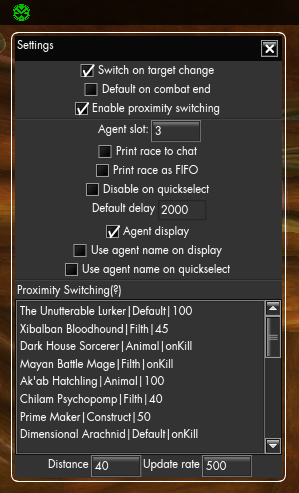
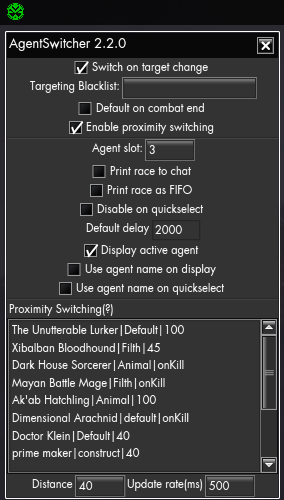
update readme + version

diff --git a/README.md b/README.md
@@ -29,6 +29,7 @@ Icon can be moved while in GUI-Edit mode
 
 **Settings**  
 Switch on target change : Switches your agent when you target an enemy  
+Targeting blacklist : Comma-separated(no space after comma) list of enemies to ignore for targeting based switching  
 Default on combat end : Switches back to your default agent x seconds after combat ends  
 Enable proximity switching : Automatically switches agent when specified(see proximity targeting section below for configuration) enemy enters proximity.
 ________
